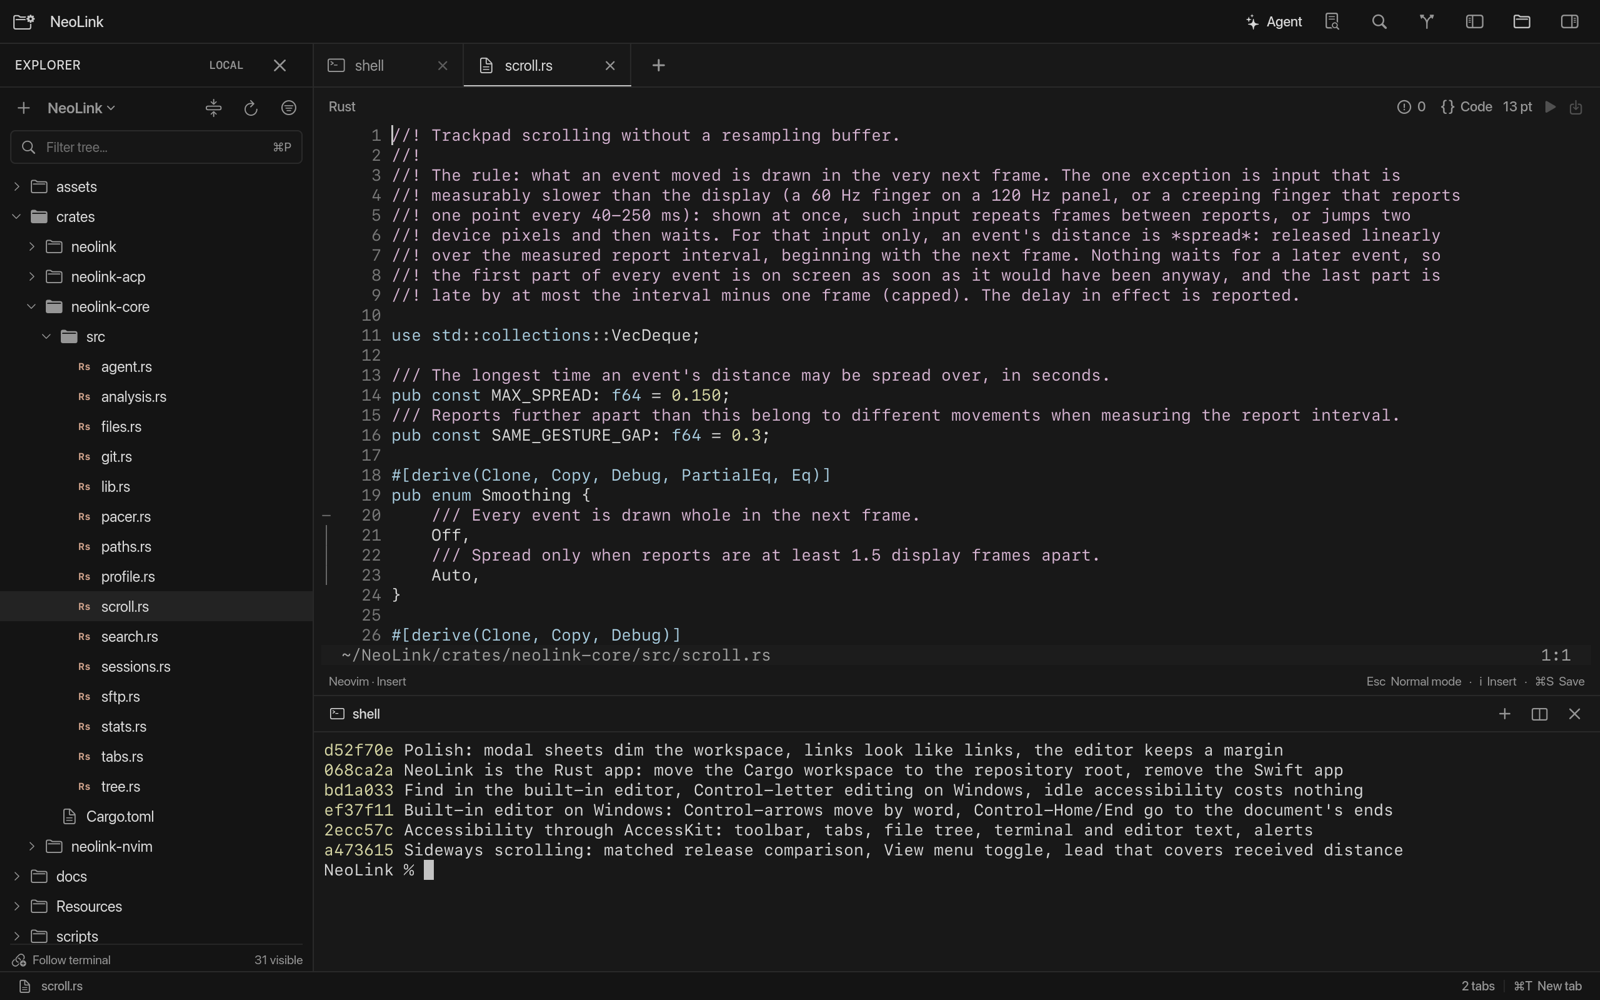
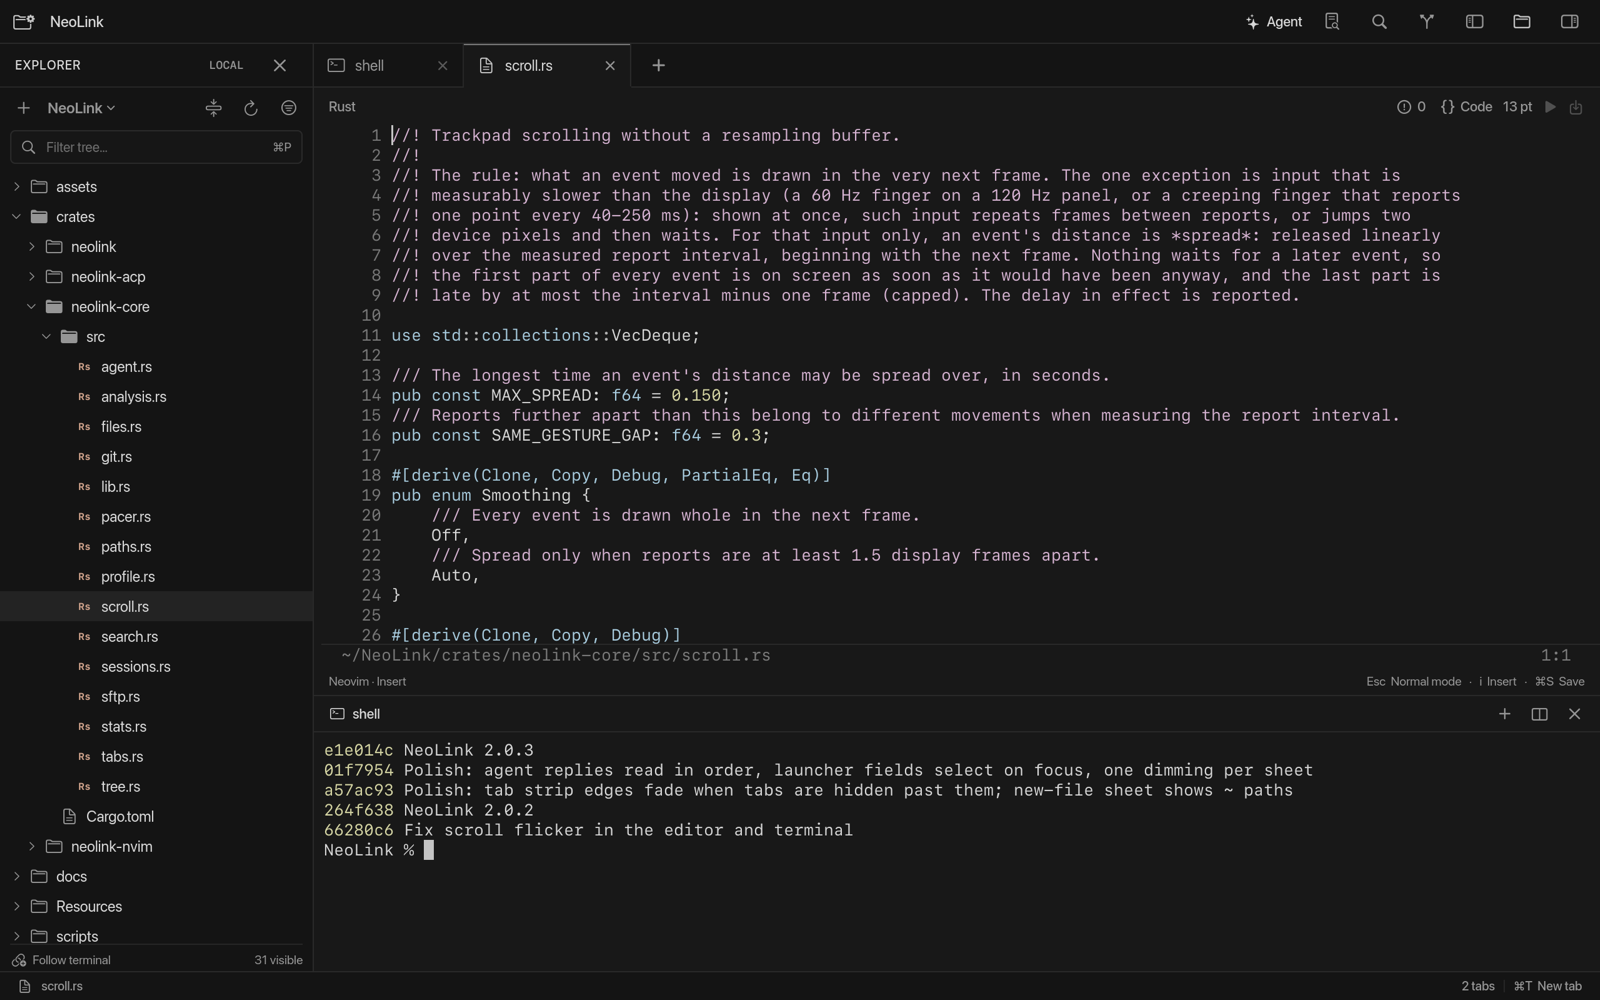
Look: tabs join the page, a quiet editor status line, one primary color for default buttons
- The tab strip takes the sidebar's darker gray and the shown tab the editor's color, with a hairline
  on top and no line beneath, so it reads as the top of the page below.
- Neovim's status line shares the editor's background under a hairline, in dimmer text, instead of
  a lighter band repeating the path already in the tab.
- Default buttons are the primary blue with white text in every sheet (the agent launcher and the
  connection sheet used a gray); the blue is a named theme color instead of 13 literals.
- README screenshot updated.

Changed region(s): [[0.1875, 0.744, 0.875, 0.899]]

diff --git a/crates/neolink/src/workspace.rs b/crates/neolink/src/workspace.rs
@@ -944,7 +944,7 @@ impl Workspace {
         }
         let done_width = ui.measure("Done", 12.0, 500, false) + ui.px(24.0);
         let done = Rect::new(right - done_width, button_y, done_width, ui.px(22.0));
-        ui.rounded(done, 5.0, theme::rgb(0x2F6FDB));
+        ui.rounded(done, 5.0, theme::PRIMARY);
         ui.text("Done", done.x + ui.px(12.0), button_y + ui.px(11.0), 12.0, 500, false, theme::rgb(0xFFFFFF));
         buttons.push((done, "done".into()));
         self.recent_sheet = Some(buttons);
@@ -1698,7 +1698,7 @@ impl Workspace {
         }
         let field = Rect::new(left, y, width - 2.0 * pad, ui.px(22.0));
         ui.rounded(field, 5.0, theme::rgb(0x1A1A1A));
-        ui.outline(field, 5.0, theme::rgb(0x2F6FDB));
+        ui.outline(field, 5.0, theme::PRIMARY);
         let middle = field.y + field.height * 0.5;
         if creation.name.is_empty() {
             ui.text(if renaming { "Name" } else if creation.is_directory { "Folder name" } else { "File name, e.g. main.py" }, field.x + ui.px(6.0), middle, 12.0, 400, false, faded(theme::TEXT_SECONDARY, 0.7));
@@ -1712,7 +1712,7 @@ impl Workspace {
         let confirm = if renaming { "Rename" } else { "Create" };
         let create_width = ui.measure(confirm, 12.0, 500, false) + ui.px(24.0);
         creation.create = Rect::new(sheet.right() - pad - create_width, button_y, create_width, ui.px(22.0));
-        ui.rounded(creation.create, 5.0, if valid { theme::rgb(0x2F6FDB) } else { theme::rgb(0x333333) });
+        ui.rounded(creation.create, 5.0, if valid { theme::PRIMARY } else { theme::rgb(0x333333) });
         ui.text(confirm, creation.create.x + ui.px(12.0), button_y + ui.px(11.0), 12.0, 500, false, if valid { theme::rgb(0xFFFFFF) } else { theme::TEXT_SECONDARY });
         let cancel_width = ui.measure("Cancel", 12.0, 500, false) + ui.px(24.0);
         creation.cancel = Rect::new(creation.create.x - ui.px(8.0) - cancel_width, button_y, cancel_width, ui.px(22.0));
@@ -1988,7 +1988,7 @@ impl Workspace {
         let mut y = alert.y + pad + ui.px(72.0);
         for (label, what, prominent) in [("Save", "save", true), ("Cancel", "cancel", false), ("Don\u{2019}t Save", "discard", false)] {
             let button = Rect::new(alert.x + pad, y, width - 2.0 * pad, ui.px(28.0));
-            ui.rounded(button, 6.0, if prominent { theme::rgb(0x2F6FDB) } else { theme::rgb(0x3A3A3A) });
+            ui.rounded(button, 6.0, if prominent { theme::PRIMARY } else { theme::rgb(0x3A3A3A) });
             let label_width = ui.measure(label, 13.0, 500, false);
             ui.text(label, button.x + (button.width - label_width) * 0.5, button.y + button.height * 0.5, 13.0, 500, false, if prominent { theme::rgb(0xFFFFFF) } else { theme::TEXT_PRIMARY });
             closing.buttons.push((button, what));
@@ -2573,7 +2573,7 @@ impl Workspace {
         let bar = Rect::new(pane.right() - width - ui.px(12.0), pane.y + ui.px(6.0), width, ui.px(28.0));
         ui.shadow(bar, 6.0);
         ui.rounded(bar, 6.0, theme::rgb(0x262626));
-        ui.outline(bar, 6.0, if found { theme::rgb(0x2F6FDB) } else { theme::rgb(0xCC9595) });
+        ui.outline(bar, 6.0, if found { theme::PRIMARY } else { theme::rgb(0xCC9595) });
         let middle = bar.y + bar.height * 0.5;
         let glass = ui.icon("magnifyingglass", 11.0, IconWeight::Regular, bar.x + ui.px(9.0 + 6.0), middle, theme::TEXT_SECONDARY).max(ui.px(12.0));
         let text_x = bar.x + ui.px(9.0) + glass + ui.px(7.0);
@@ -2851,7 +2851,9 @@ impl Workspace {
     fn draw_strip(&mut self, painter: &mut Painter) {
         let mut ui = Ui { painter, scale: self.scale };
         let strip = self.strip;
-        ui.fill(strip, theme::EDITOR_BACKGROUND);
+        // The strip is the sidebar's darker gray; the shown tab is the editor's color with no line under
+        // it, so it reads as the top of the page below rather than a label floating above it.
+        ui.fill(strip, theme::SIDEBAR_BACKGROUND);
         self.tab_rects.clear();
         self.close_rects.clear();
         let middle = strip.y + strip.height * 0.5;
@@ -2891,6 +2893,7 @@ impl Workspace {
         }
         self.strip_scroll = self.strip_scroll.clamp(0.0, (content - viewport).max(0.0)).round();
         let mut x = strip.x - self.strip_scroll;
+        let mut selected_span: Option<(f32, f32)> = None;
         for (index, (title, is_document, modified)) in tabs.iter().enumerate() {
             let (fitted, context, _, width) = &layout[index];
             let width = *width;
@@ -2901,8 +2904,10 @@ impl Workspace {
             self.tab_rects.push(Rect::new(visible_left, rect.y, (visible_right - visible_left).max(0.0), rect.height));
             let selected = index == self.shown;
             let hovered = self.hover == Some(index);
-            if !selected && hovered {
-                ui.fill(rect, theme::HOVER);
+            if selected {
+                ui.fill(rect, theme::EDITOR_BACKGROUND);
+            } else if hovered {
+                ui.fill(rect, theme::white(0.035));
             }
             let icon = if *is_document { if title.to_lowercase().ends_with(".pdf") { "doc.richtext" } else { "doc.text" } } else { "terminal" };
             ui.icon(icon, 12.0, IconWeight::Regular, rect.x + ui.px(11.0 + 7.0), middle, if selected { theme::ACCENT } else { theme::TEXT_SECONDARY });
@@ -2921,13 +2926,15 @@ impl Workspace {
             self.close_rects.push(if close.x >= strip.x && close.right() <= strip.x + viewport { close } else { Rect::default() });
             ui.painter.scene.fill(rect.right() - line, rect.y, line, rect.height, theme::SEPARATOR);
             if selected {
-                ui.painter.scene.fill(rect.x, rect.bottom() - line, rect.width, line, theme::ACCENT);
+                // A hairline on top in the accent: where the eye looks for the shown tab.
+                ui.painter.scene.fill(rect.x, rect.y, rect.width - line, line, faded(theme::ACCENT, 0.55));
+                selected_span = Some((rect.x.max(strip.x), rect.right().min(strip.x + viewport)));
             }
             x += width;
         }
         // Tabs hidden past an edge: that edge fades out, so the strip reads as scrollable.
         let fade = ui.px(44.0);
-        let [r, g, b, _] = theme::EDITOR_BACKGROUND;
+        let [r, g, b, _] = theme::SIDEBAR_BACKGROUND;
         const STEPS: usize = 14;
         for (hidden, left) in [(self.strip_scroll > 0.5, true), (content - self.strip_scroll > viewport + 0.5, false)] {
             if !hidden {
@@ -2946,7 +2953,14 @@ impl Workspace {
         // New local terminal.
         self.plus_rect = Rect::new((x + ui.px(5.0)).min(strip.right() - ui.px(39.0)), middle - ui.px(15.0), ui.px(34.0), ui.px(30.0));
         ui.icon("plus", 12.0, IconWeight::Semibold, self.plus_rect.x + self.plus_rect.width * 0.5, middle, theme::TEXT_SECONDARY);
-        ui.painter.scene.fill(strip.x, strip.bottom(), strip.width, line, theme::SEPARATOR);
+        // The line under the strip stops under the shown tab.
+        match selected_span {
+            Some((start, end)) => {
+                ui.painter.scene.fill(strip.x, strip.bottom(), (start - strip.x).max(0.0), line, theme::SEPARATOR);
+                ui.painter.scene.fill(end, strip.bottom(), (strip.right() - end).max(0.0), line, theme::SEPARATOR);
+            }
+            None => ui.painter.scene.fill(strip.x, strip.bottom(), strip.width, line, theme::SEPARATOR),
+        }
     }
 
     /// The bar under a terminal (`TerminalStatusBar`).

diff --git a/crates/neolink/src/gitview.rs b/crates/neolink/src/gitview.rs
@@ -525,7 +525,7 @@ impl GitSheet {
     fn button(&mut self, ui: &mut Ui, label: &str, right: f32, middle: f32, what: &'static str, enabled: bool, prominent: bool) -> f32 {
         let width = ui.measure(label, 11.0, 500, false) + ui.px(18.0);
         let rect = Rect::new(right - width, middle - ui.px(10.0), width, ui.px(20.0));
-        ui.rounded(rect, 5.0, if prominent && enabled { theme::rgb(0x2F6FDB) } else { theme::rgb(0x343434) });
+        ui.rounded(rect, 5.0, if prominent && enabled { theme::PRIMARY } else { theme::rgb(0x343434) });
         ui.text(label, rect.x + ui.px(9.0), middle, 11.0, 500, false, if !enabled { faded(theme::TEXT_SECONDARY, 0.6) } else if prominent { theme::rgb(0xFFFFFF) } else { theme::TEXT_PRIMARY });
         if enabled {
             self.buttons.push((rect, what));
@@ -626,7 +626,7 @@ impl GitSheet {
         let commit_width = self.button(ui, &label, frame.right() - ui.px(12.0), commit_top + ui.px(11.0), "commit", can_commit, true);
         let field = Rect::new(frame.x + ui.px(12.0), commit_top, frame.width - ui.px(24.0 + 12.0) - commit_width, ui.px(40.0));
         ui.rounded(field, 5.0, theme::rgb(0x1E1E1E));
-        ui.outline(field, 5.0, if self.focus == Focus::Commit { theme::rgb(0x2F6FDB) } else { theme::white(0.12) });
+        ui.outline(field, 5.0, if self.focus == Focus::Commit { theme::PRIMARY } else { theme::white(0.12) });
         ui.painter.scene.set_clip(Some(field));
         let text_middle = field.y + ui.px(12.0);
         let caret = if self.commit_message.is_empty() {
@@ -794,7 +794,7 @@ impl GitSheet {
             }
             let field = Rect::new(alert.x + pad, alert.y + pad + ui.px(62.0), alert.width - 2.0 * pad, ui.px(22.0));
             ui.rounded(field, 5.0, theme::rgb(0x1A1A1A));
-            ui.outline(field, 5.0, theme::rgb(0x2F6FDB));
+            ui.outline(field, 5.0, theme::PRIMARY);
             let middle = field.y + field.height * 0.5;
             let caret = if self.branch_name.is_empty() {
                 ui.text("Branch name", field.x + ui.px(6.0), middle, 12.0, 400, false, faded(theme::TEXT_SECONDARY, 0.7));

diff --git a/crates/neolink/src/agents.rs b/crates/neolink/src/agents.rs
@@ -731,9 +731,9 @@ impl Launcher {
                 let enabled = self.can_launch();
                 let launch_width = ui.measure(label, 12.0, 600, false) + ui.px(20.0);
                 let launch = Rect::new(right - launch_width, y, launch_width, ui.px(22.0));
-                // `.tint(accent)` with the label in the editor background colour.
-                ui.rounded(launch, 5.0, if enabled { theme::ACCENT } else { theme::rgb(0x333333) });
-                ui.text(label, launch.x + ui.px(10.0), middle, 12.0, 600, false, if enabled { theme::EDITOR_BACKGROUND } else { theme::TEXT_SECONDARY });
+                // The default button, as in every sheet: the primary color with white text.
+                ui.rounded(launch, 5.0, if enabled { theme::PRIMARY } else { theme::rgb(0x333333) });
+                ui.text(label, launch.x + ui.px(10.0), middle, 12.0, 600, false, if enabled { theme::rgb(0xFFFFFF) } else { theme::TEXT_SECONDARY });
                 if enabled {
                     self.buttons.push((launch, "launch"));
                 }
@@ -767,7 +767,7 @@ impl Launcher {
         }
         let focused = self.focus == Some(field);
         ui.rounded(rect, 5.0, theme::rgb(0x1E1E1E));
-        ui.outline(rect, 5.0, if focused { theme::rgb(0x2F6FDB) } else { theme::white(0.12) });
+        ui.outline(rect, 5.0, if focused { theme::PRIMARY } else { theme::white(0.12) });
         self.buttons.push((rect, what));
         let line = ui.px(1.0).max(1.0);
         let (points, monospace) = if multiline { (12.0, true) } else { (13.0, false) };

diff --git a/crates/neolink/src/connections.rs b/crates/neolink/src/connections.rs
@@ -534,7 +534,7 @@ impl Connections {
             ui.text(title, x, y + ui.px(7.0), 11.0, 500, false, theme::TEXT_SECONDARY);
             let rect = Rect::new(x, y + ui.px(14.0 + 7.0), width, ui.px(22.0));
             ui.rounded(rect, 5.0, theme::rgb(0x1E1E1E));
-            ui.outline(rect, 5.0, if sheet.focus == which { theme::rgb(0x2F6FDB) } else { theme::white(0.12) });
+            ui.outline(rect, 5.0, if sheet.focus == which { theme::PRIMARY } else { theme::white(0.12) });
             let middle = rect.y + rect.height * 0.5;
             ui.painter.scene.set_clip(Some(rect));
             let end = if value.is_empty() {
@@ -588,8 +588,9 @@ impl Connections {
         let valid = Self::sheet_valid(&sheet);
         let save_width = ui.measure(label, 12.0, 600, false) + ui.px(20.0);
         let save_rect = Rect::new(right - save_width, y, save_width, ui.px(22.0));
-        ui.rounded(save_rect, 5.0, if valid { theme::ACCENT } else { theme::rgb(0x333333) });
-        ui.text(label, save_rect.x + ui.px(10.0), middle, 12.0, 600, false, if valid { theme::EDITOR_BACKGROUND } else { theme::TEXT_SECONDARY });
+        // The default button, as in every sheet: the primary color with white text.
+        ui.rounded(save_rect, 5.0, if valid { theme::PRIMARY } else { theme::rgb(0x333333) });
+        ui.text(label, save_rect.x + ui.px(10.0), middle, 12.0, 600, false, if valid { theme::rgb(0xFFFFFF) } else { theme::TEXT_SECONDARY });
         if valid {
             sheet.buttons.push((save_rect, "save"));
         }

diff --git a/crates/neolink/src/editor.rs b/crates/neolink/src/editor.rs
@@ -597,9 +597,12 @@ impl Editor {
         let mut scratch = std::mem::take(&mut self.scratch);
         for (index, row) in screen.rows.iter().enumerate() {
             let y = if smooth && index == text_rows {
-                // The status line.
+                // The status line, under a hairline (it shares the editor's background).
                 painter.scene.set_clip(Some(rect));
-                rect.y + visible as f32 * cell.height
+                let y = rect.y + visible as f32 * cell.height;
+                let line = (cell.font_pixels / 14.0).round().max(1.0);
+                painter.scene.fill(rect.x, y - line, rect.width, line, theme::SEPARATOR);
+                y
             } else {
                 rect.y + index as f32 * cell.height - shift
             };

diff --git a/crates/neolink/src/menu.rs b/crates/neolink/src/menu.rs
@@ -139,7 +139,7 @@ impl Menu {
                     let rect = Rect::new(x, top, width, row);
                     self.rects.push(rect);
                     if self.hover == Some(index) {
-                        ui.rounded(Rect::new(x + ui.px(5.0), top, width - ui.px(10.0), row), 4.0, theme::rgb(0x2F6FDB));
+                        ui.rounded(Rect::new(x + ui.px(5.0), top, width - ui.px(10.0), row), 4.0, theme::PRIMARY);
                     }
                     let middle = top + row * 0.5;
                     if *checked {

diff --git a/crates/neolink/src/remote.rs b/crates/neolink/src/remote.rs
@@ -440,7 +440,7 @@ impl RemoteBrowser {
         if let Some((prompt, name)) = &self.prompt {
             let field = Rect::new(rect.x + inset, y, rect.width - 2.0 * inset, ui.px(27.0));
             ui.rounded(field, 4.0, theme::rgb(0x161616));
-            ui.outline(field, 4.0, theme::rgb(0x2F6FDB));
+            ui.outline(field, 4.0, theme::PRIMARY);
             let field_middle = field.y + field.height * 0.5;
             let end = if name.is_empty() {
                 ui.text(match prompt {

diff --git a/crates/neolink/src/search.rs b/crates/neolink/src/search.rs
@@ -291,7 +291,7 @@ impl SearchSheet {
         y += ui.px(11.0 + 12.0);
         let field = Rect::new(left, y, right - left, ui.px(24.0));
         ui.rounded(field, 5.0, theme::rgb(0x1E1E1E));
-        ui.outline(field, 5.0, theme::rgb(0x2F6FDB));
+        ui.outline(field, 5.0, theme::PRIMARY);
         let middle = field.y + field.height * 0.5;
         let line = ui.px(1.0).max(1.0);
         let caret = if self.query.is_empty() {

diff --git a/crates/neolink/src/theme.rs b/crates/neolink/src/theme.rs
@@ -20,6 +20,8 @@ pub const TEXT_PRIMARY: Rgba = rgb(0xD8D8D8);
 pub const TEXT_SECONDARY: Rgba = rgb(0x969696);
 pub const ACCENT: Rgba = rgb(0xC4C4C4);
 pub const TERMINAL_SELECTION: Rgba = rgb(0x3A3F4A);
+/// The one strong color: default buttons, focus rings, the highlighted menu item.
+pub const PRIMARY: Rgba = rgb(0x2F6FDB);
 
 /// ANSI colours 0-15: recognisable meanings without bright primaries.
 pub const ANSI: [u32; 16] = [
